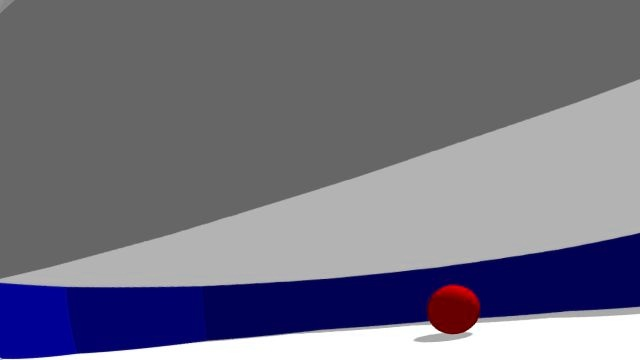
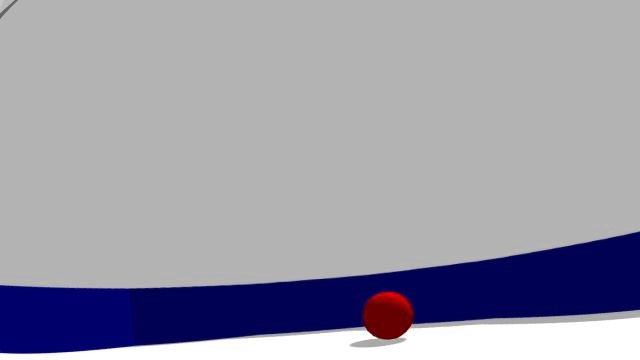
IMAGERY SENDING WORKS!

diff --git a/Server/stitch_server.py b/Server/stitch_server.py
@@ -30,9 +30,9 @@ class cam_stream:
 		topic_base = "/" + os.getenv("MIRO_ROBOT_NAME") + "/"
 
 		# subsribe to cameras
-		self.sub_caml = rospy.Subscriber(topic_base + "sensors/caml",
+		self.sub_caml = rospy.Subscriber(topic_base + "sensors/caml/compressed",
 							CompressedImage, self.callback_caml)
-		self.sub_camr = rospy.Subscriber(topic_base + "sensors/camr",
+		self.sub_camr = rospy.Subscriber(topic_base + "sensors/camr/compressed",
 							CompressedImage, self.callback_camr)
 
 
@@ -41,11 +41,9 @@ class cam_stream:
 		return self.input_camera[i]
 
 	def callback_caml(self, ros_image):
-		print "left eye"
 		self.callback_cam(ros_image, 0)
 
 	def callback_camr(self, ros_image):
-		print "right eye"
 		self.callback_cam(ros_image, 1)
 
 	def callback_cam(self, ros_image, index):
@@ -78,22 +76,22 @@ def stitch(main):
 	while True:
 		#  Wait for next request from client
 		message = socket.recv(0, True)
-		print "Received Request"
-        # b = bytearray()
-        # b.extend(message)
+		# b = bytearray()
+		# b.extend(message)
 
-        # Split message into left and right images
-        # img = cv2.imdecode(np.array(b), 1);
+		# Split message into left and right images
+		# img = cv2.imdecode(np.array(b), 1);
 		left = main.get_image(0)
 		right = main.get_image(1)
 
-        # Process
-        img = left # temporary
+		# Process
+		# img = left # temporary
 
-        #  Send reply back to client
-        # ENCODE TO JPG BYTE STR FOR UNITY
-        stitched = cv2.imencode('.jpg', img)[1].tostring()
-        # socket.send(stitched)
+		#  Send reply back to client
+		# ENCODE TO JPG BYTE STR FOR UNITY
+		stitched = cv2.imencode('.jpg', left)[1].tostring()
+		socket.send(stitched)
+
 
 
 if __name__ == "__main__":

diff --git a/Server/camera_streamer.py b/Server/camera_streamer.py
@@ -35,9 +35,9 @@ class cam_stream:
 		topic_base = "/" + os.getenv("MIRO_ROBOT_NAME") + "/"
 
 		# subsribe to cameras
-		self.sub_caml = rospy.Subscriber(topic_base + "sensors/caml",
+		self.sub_caml = rospy.Subscriber(topic_base + "sensors/caml/compressed",
 							CompressedImage, self.callback_caml)
-		self.sub_camr = rospy.Subscriber(topic_base + "sensors/camr",
+		self.sub_camr = rospy.Subscriber(topic_base + "sensors/camr/compressed",
 							CompressedImage, self.callback_camr)
 
 		# get imagery
